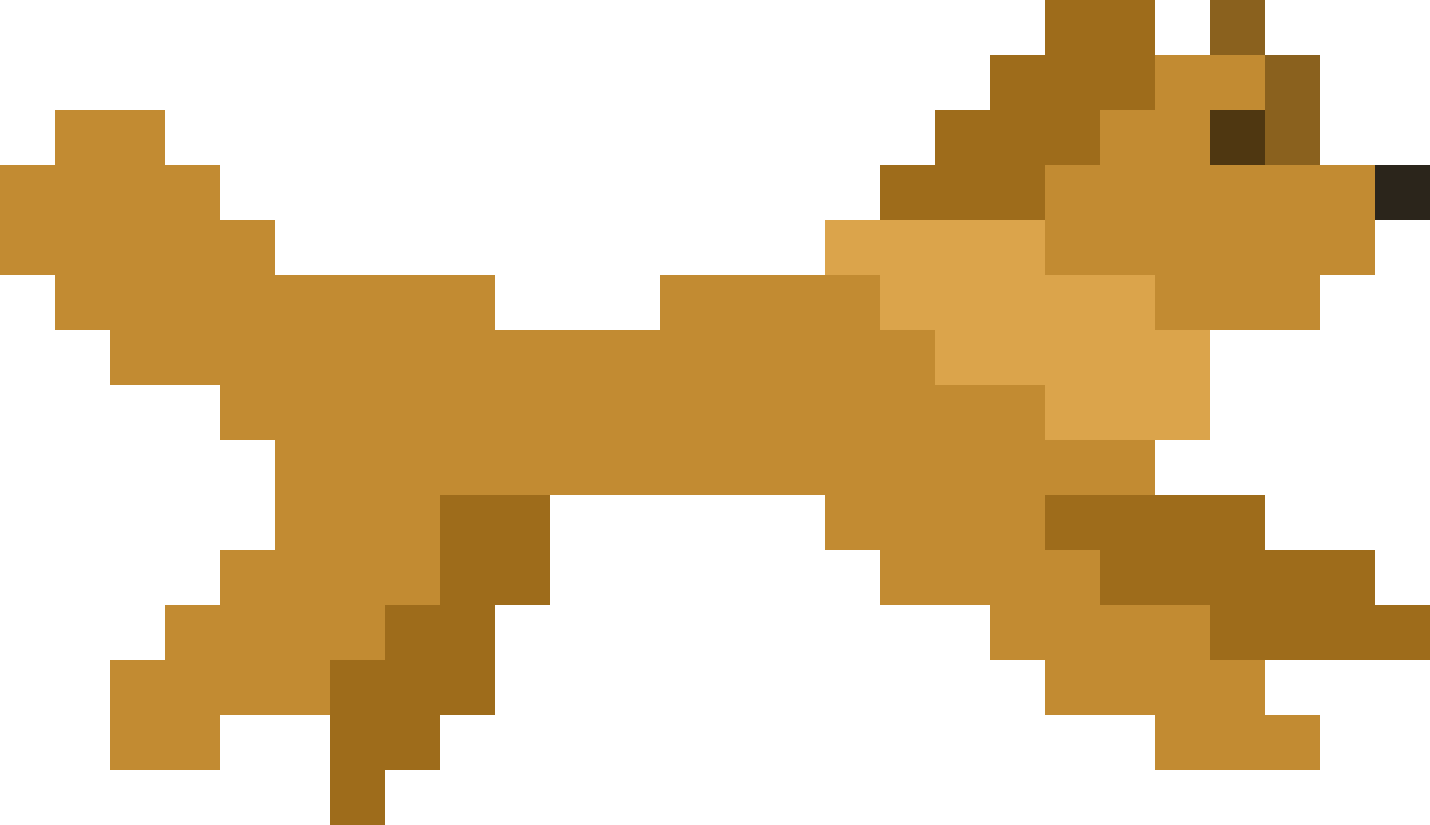
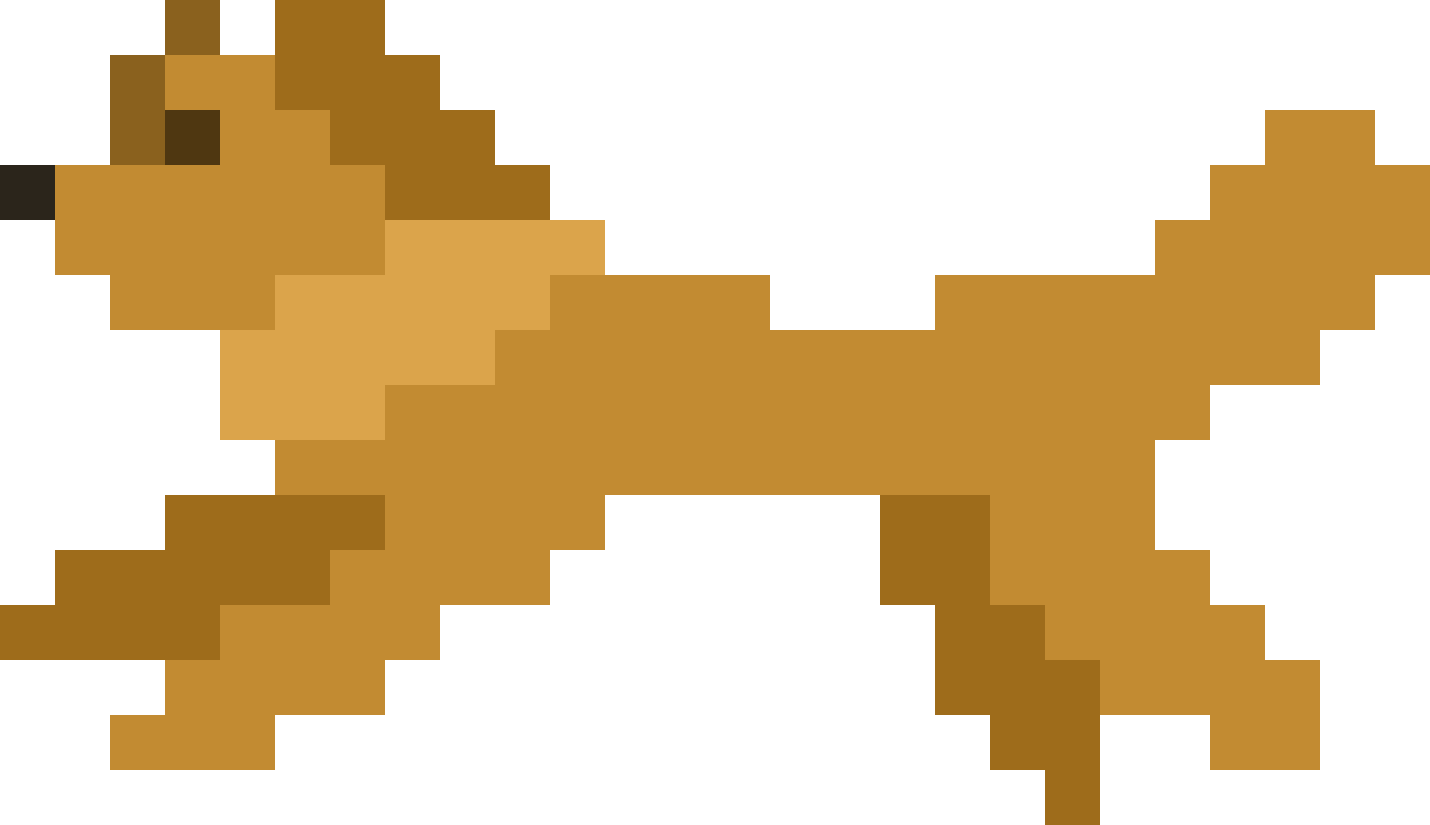
made obstacles spawn faster between each other

diff --git a/javascript/games/persecution.js b/javascript/games/persecution.js
@@ -16,6 +16,7 @@ let npcsFade = 255, npcsFadePerFrame;
 let charIdle, char_idle_1, char_idle_2;
 let pide_running_L, pide_running_M, pide_running_R, pide_idle_1, pide_idle_2;
 let pideIdle, pideRun, pideX, charCutsceneX;
+let dog_running_1, dog_running_2, seagull_1, seagull_2;
 let cutsceneStart, cutsceneEnd, cutsceneDuration = 100, endInitialCutscene = false;
 
 let persecution_gameover;
@@ -60,6 +61,13 @@ let obsX, obsY, obsW, obsH; /* short obstacle on the floor */
 let tallObsX, tallObsY, tallObsW, tallObsH; /* obstacle too tall (player needs to roll) */
 let obstacles = [];
 let typeOfObstacle = 1, typeOfObstacleHit;
+let firstObstacleAdded = false;
+let obstacleSpawn = {
+    isCounting: false,
+    timerStart: 0,
+    timerShouldEnd: 200,
+    timerEnded: false,
+};
 
 let fail = false
 let obstacleHit, hitWhenSwitch, hitObstacleStart, hitObstacleEnd, hitObstacleSwitch;
@@ -78,6 +86,11 @@ let runSwitch = true, runWhenSwitch = 20, runWhenSwitchStart, runWhenSwitchEnd, 
 export function persecution_preload() {
     font = loadFont('.././fonts/Jersey_10/Jersey10-Regular.ttf');
     
+    dog_running_1 = loadImage('../images/games/elements/dog_running_1.png');
+    dog_running_2 = loadImage('../images/games/elements/dog_running_2.png');
+    seagull_1 = loadImage('../images/games/elements/seagull_1.png');
+    seagull_2 = loadImage('../images/games/elements/seagull_2.png');
+
     /** ENTRY CUTSCENE */
     npc1_idle_1 = loadImage('../images/games/characters/npc1_idle_1.png');
     npc1_idle_2 = loadImage('../images/games/characters/npc1_idle_2.png');
@@ -117,7 +130,6 @@ export function persecution_preload() {
     char_jumping_2 = loadImage('../images/games/characters/char_jumping_2.png');
     char_jumping_3 = loadImage('../images/games/characters/char_jumping_3.png');
     char_jumping_4 = loadImage('../images/games/characters/char_jumping_4.png');
-    char_jumping_5 = loadImage('../images/games/characters/char_jumping_5.png');
 
     char_tripping_forward_1 = loadImage('../images/games/characters/char_tripping_forward_1.png');
     char_tripping_forward_2 = loadImage('../images/games/characters/char_tripping_forward_2.png');
@@ -132,10 +144,10 @@ export function persecution_preload() {
     /** SCENERY */
     floor_subway = loadImage('../images/games/scenery/floor_subway.png');
     floor_subway_bg = loadImage('../images/games/scenery/floor_subway_bg.png');
-    bg_front_subway = loadImage('../images/games/scenery/bg_front_subway.png');
+    // bg_front_subway = loadImage('../images/games/scenery/bg_front_subway.png');
     bg_subway = loadImage('../images/games/scenery/bg_subway_blurred.png');
 
-    floor_lisbon = loadImage('../images/games/scenery/floor_lisbon.png');
+    // floor_lisbon = loadImage('../images/games/scenery/floor_lisbon.png');
 }
 
 export function persecution_setup() {
@@ -178,10 +190,10 @@ export function persecution_setup() {
     tallObsX = width*0.7;
     tallObsY = floorYPlacement - charH;
 
-    subwayH = height/1.7;
-    subwayW = (bg_front_subway.width*(subwayH))/bg_front_subway.height;
-    subwayX = width+subwayW/2;
-    subwayY = height-(subwayH)/2;
+    // subwayH = height/1.7;
+    // subwayW = (bg_front_subway.width*(subwayH))/bg_front_subway.height;
+    // subwayX = width+subwayW/2;
+    // subwayY = height-(subwayH)/2;
 
     //* GAME OVER
     char_fail = {
@@ -200,7 +212,7 @@ export function persecution_draw() {
     //************ MOVEMENT and SCENERY */
     if (!cutscene && !gameOver) {
         gameSpeed += 0.0001;
-        backgroundX -= 0.25 * gameSpeed;
+        // backgroundX -= 0.25 * gameSpeed;
     }
 
     /** BACKGROUND */
@@ -329,23 +341,54 @@ export function persecution_draw() {
             openingCutscene(npc3, charX + 3*(charW/4)+width/3, charYDefault + charH/2, -1, 47, npcsFade); //charImage, posX, posY, facingDirection, frameCycle
         }
     }
+    
 
     //************ OBSTACLES */
     /** spawns the first obstacle */
-    if (!cutscene && points == 10) {
-        typeOfObstacle = Math.ceil(Math.random() * 2) /** 1,2,3 */ //* MUDAR PARA 33333333333333333333333333333333333333333333333333333333333333333333333333333333333333333333333333333333 */
+    if (!cutscene) {
+        if (!firstObstacleAdded) {
+            firstObstacleAdded = true;
+            typeOfObstacle = Math.ceil(Math.random() * 2) /** 1,2 */
 
-        if (typeOfObstacle == 1) {
-            obstacles.push(new Obstacle(gameSpeed, width, obsY, obsW, obsH, typeOfObstacle));
-        } else if (typeOfObstacle == 2) {
-            obstacles.push(new Obstacle(gameSpeed, width, tallObsY, tallObsW, tallObsH, typeOfObstacle));
+            if (typeOfObstacle == 1) {
+                obstacles.push(new Obstacle(gameSpeed, width, obsY, obsW, obsH, typeOfObstacle));
+            } else if (typeOfObstacle == 2) {
+                obstacles.push(new Obstacle(gameSpeed, width, tallObsY, tallObsW, tallObsH, typeOfObstacle));
+            }
+        } else {
+            if (!gameOver) {
+                /* starts the timer responsible for adding a new obstacle on screen */
+                obstacleSpawn = timer(obstacleSpawn.isCounting, obstacleSpawn.timerStart, obstacleSpawn.timerShouldEnd);
+                if (obstacleSpawn.timerEnded) { //if the timer ended
+                    obstacleSpawn.timerEnded = false;
+
+                    if (obstacleSpawn.timerShouldEnd >= 125) { //doesn't let the food spawn any faster than every X frames                
+                        obstacleSpawn.timerShouldEnd -= 5 * gameSpeed; //reduces the amount of timer needed to spawn the next food
+                    } else if (obstacleSpawn.timerShouldEnd >= 100) {
+                        obstacleSpawn.timerShouldEnd -= 2 * gameSpeed;
+                        // basketSpeed += 0.05;
+                    } else if (obstacleSpawn.timerShouldEnd >= 50) {
+                        obstacleSpawn.timerShouldEnd -= 1 * gameSpeed;
+                        // basketSpeed += 0.1;
+                    } else {
+                        obstacleSpawn.timerShouldEnd -= 0.1 * gameSpeed;
+                    }
+
+                    /* adds new obstacle on screen */
+                    typeOfObstacle = Math.ceil(Math.random() * 2) /** 1,2 */
+                            
+                    if (typeOfObstacle == 1) {
+                        obstacles.push(new Obstacle(gameSpeed, width, obsY, obsW, obsH, typeOfObstacle));
+                    } else if (typeOfObstacle == 2) {
+                        obstacles.push(new Obstacle(gameSpeed, width, tallObsY, tallObsW, tallObsH, typeOfObstacle));
+                    }
+                }
+            }
         }
     }
 
     for (let i = obstacles.length - 1; i >= 0; i--) {
-        // if (!gameOver) {
-            obstacles[i].update();
-        // }
+        obstacles[i].update();
         obstacles[i].display(char_position);
         if (obstacles[i].collides(char_position)) {
             gameOver = true;
@@ -355,36 +398,37 @@ export function persecution_draw() {
         if (obstacles[i].offscreen()) {
             obstacles.splice(i, 1);
 
-            if (!gameOver) {
-                typeOfObstacle = Math.ceil(Math.random() * 2) /** 1,2,3 */ //* MUDAR PARA 33333333333333333333333333333333333333333333333333333333333333333333333333333333333333333333333333333333 */
+            /** COMO EU COSTUMAVA ADICIONAR OBSTACULOS */
+            // if (!gameOver) {
+            //     typeOfObstacle = Math.ceil(Math.random() * 2) /** 1,2 */
                 
-                if (typeOfObstacle == 1) {
-                    obstacles.push(new Obstacle(gameSpeed, width, obsY, obsW, obsH, typeOfObstacle));
-                } else if (typeOfObstacle == 2) {
-                    obstacles.push(new Obstacle(gameSpeed, width, tallObsY, tallObsW, tallObsH, typeOfObstacle));
-                }
-            }
+            //     if (typeOfObstacle == 1) {
+            //         obstacles.push(new Obstacle(gameSpeed, width, obsY, obsW, obsH, typeOfObstacle));
+            //     } else if (typeOfObstacle == 2) {
+            //         obstacles.push(new Obstacle(gameSpeed, width, tallObsY, tallObsW, tallObsH, typeOfObstacle));
+            //     }
+            // }
         }
     }
-
+    console.log(obstacles);
 
     //************ TRANSITIONS */
-    if (((backgroundX + backgroundW)-width*0.8) <= width) {
-        newScenery = sceneryTransition(scenery);
+    // if (((backgroundX + backgroundW)-width*0.8) <= width) {
+    //     newScenery = sceneryTransition(scenery);
 
-        if (newScenery != undefined) {
-            scenery = newScenery;    
-        }
+    //     if (newScenery != undefined) {
+    //         scenery = newScenery;    
+    //     }
 
-        if (scenery == "subway") {
-            /** subway appears to cover most elements on the screen */
-            image(bg_front_subway, /* img */
-                subwayX, subwayY, /* x, y */
-                subwayW, subwayH) /* w, h */   
+    //     if (scenery == "subway") {
+    //         /** subway appears to cover most elements on the screen */
+    //         image(bg_front_subway, /* img */
+    //             subwayX, subwayY, /* x, y */
+    //             subwayW, subwayH) /* w, h */   
 
-            subwayX -= 20 * gameSpeed;
-        }
-    }
+    //         subwayX -= 20 * gameSpeed;
+    //     }
+    // }
 
     //************ POINTS */
     if (!cutscene && !gameOver) {
@@ -976,30 +1020,30 @@ function charIsFailing(failImage, whenSwitch, angleChanges, angleHowMuch, speedX
     }
 }
 
-function sceneryTransition(scenery) {
-    if (scenery == "subway") {
-        if (subwayX <= width*0.4) { /** when the middle of the subway reaches 60% of the screen */
-            fill(0, 0, 0, fade)
-            rect(width/2, height/2, width, height)
+// function sceneryTransition(scenery) {
+//     if (scenery == "subway") {
+//         if (subwayX <= width*0.4) { /** when the middle of the subway reaches 60% of the screen */
+//             fill(0, 0, 0, fade)
+//             rect(width/2, height/2, width, height)
 
-            if (fade <= 255 && fadeIn) { /** black screen fades in and covers everything but the subway */
-                fade += 5
-            } else if (fade >= 250 || (!fadeIn && fade > 0)) {
-                fadeIn = false;
+//             if (fade <= 255 && fadeIn) { /** black screen fades in and covers everything but the subway */
+//                 fade += 5
+//             } else if (fade >= 250 || (!fadeIn && fade > 0)) {
+//                 fadeIn = false;
                 
-                scenery = "";
-                fade -= 5;
-            } else if (fade <= 0) {
-                if (subwayX + subwayW/2 < 0) { /** when the end of the subway is no longer visible */
-                    subwayX = width+subwayW/2; /* reset OG subway position for next time this scene comes */
-                    fadeIn = true;
-                    backgroundX = backgroundW/2; /** resets the initial position of the background for the following scene */
-                    return "Lisboa" /** changes to next scenery */ //* MUDAR PARA RANDOM!!!!!!!!!!!!!!!!!!!!!!!!!!!!!!!!!!!!!!!!!!!!!!!!!!!!!!!!!!!!!!!!!!!!!!!! */
-                }
-            }
-        }
-    }
-}
+//                 scenery = "";
+//                 fade -= 5;
+//             } else if (fade <= 0) {
+//                 if (subwayX + subwayW/2 < 0) { /** when the end of the subway is no longer visible */
+//                     subwayX = width+subwayW/2; /* reset OG subway position for next time this scene comes */
+//                     fadeIn = true;
+//                     backgroundX = backgroundW/2; /** resets the initial position of the background for the following scene */
+//                     return "Lisboa" /** changes to next scenery */ //* MUDAR PARA RANDOM!!!!!!!!!!!!!!!!!!!!!!!!!!!!!!!!!!!!!!!!!!!!!!!!!!!!!!!!!!!!!!!!!!!!!!!! */
+//                 }
+//             }
+//         }
+//     }
+// }
 
 class Floor {
     constructor(floorX, whichScenery) {
@@ -1008,10 +1052,6 @@ class Floor {
     }
     
     update() {
-        // if (previousFloorX == "none") {
-        //     this.floorX = width - (floorW/2)
-        // }
-
         this.floorX -= 5 * gameSpeed;
         /** "minus" to make the floor move from right to left
          * "5" is the default speed
@@ -1028,10 +1068,6 @@ class Floor {
             image(floor_subway_bg, /* img */
                 this.floorX, floorY/2+floorH/2-((floor_subway_bg.height*floorW)/floor_subway_bg.width)/2, /* x, y */
                 floorW, (floor_subway_bg.height*floorW)/floor_subway_bg.width) /* w, h */
-        } else if (this.whichScenery == "Lisboa") {
-            image(floor_lisbon, /* img */
-                this.floorX, floorY, /* x, y */
-                floorW, floorH) /* w, h */
         }
     }
     
@@ -1061,23 +1097,31 @@ class Obstacle {
     }
     
     display(element) { /** makes the obstacle appear on the canvas */
-        rect(this.obsX, this.obsY, this.obsW, this.obsH)
+        if (this.typeOfObstacle == 1) {
+            image(dog_running_1,
+                this.obsX, this.obsY,
+                this.obsW, (this.obsW*dog_running_1.height)/dog_running_1.width)
+        } else {
+            image(seagull_1,
+                this.obsX, this.obsY,
+                this.obsW, (this.obsW*seagull_1.height)/seagull_1.width)
+        }
 
         /* OBSTACLE AND CHARACTER DEBUG HELP */
         // fill("#FF0000")
-        // rect(this.obsX-this.obsW/2, this.obsY-this.obsH/2, 10, 10)
-        // rect(element.x-element.w/2, element.y, 10, 10)
+        // rect(this.obsX-this.obsW/2*0.9, this.obsY-this.obsH/2, 10, 10)
+        // rect(element.x, element.y, 10, 10)
 
     }
     
     offscreen() {
         /** if obstacle left the screen */
-        return (this.obsX < 0);
+        return (this.obsX+this.obsW/2 < 0);
     }
   
     collides(element) {
         /* "0.9" is the "tolerance of hit" */
-        if (typeOfObstacle == 1 /** obstacle that player has to jump over */
+        if (this.typeOfObstacle == 1 /** obstacle that player has to jump over */
             && this.obsX - this.obsW/2 < element.x*0.9 /** if farthest point on the left of obstacle is "more to the left" than the farthest point to the right of the character */
             && this.obsX + this.obsW/2 > element.x - element.w*0.9 /** if farthest point on the right of obstacle is "more to the right" than the farthest point to the left of the character */
             && this.obsY - this.obsH/2 < element.y) { /** if the highest point of the obstacle is ABOVE(<) the lowest point of the character */
@@ -1086,7 +1130,7 @@ class Obstacle {
             obstacleHit = 1;
 
             return true;
-        } else if (typeOfObstacle == 2 /** obstacle that player has to roll under */
+        } else if (this.typeOfObstacle == 2 /** obstacle that player has to roll under */
             && this.obsX - this.obsW/2 < element.x*0.9 /** if farthest point on the left of obstacle is "more to the left" than the farthest point to the right of the character */
             && this.obsX + this.obsW/2 > element.x - element.w*0.4 /** if farthest point on the right of obstacle is "more to the right" than the farthest point to the left of the character */
             && this.obsY + this.obsH/2 >= element.y - element.h) { /** if the lowest point of the obstacle is BELOW(>) the highest point of the character */
